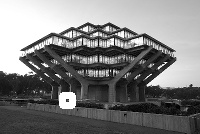
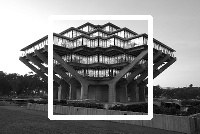
updated version

Changed region(s): [[0.24, 0.0896, 0.78, 0.8955]]

diff --git a/ece196FaceRecognition/process_local.py b/ece196FaceRecognition/process_local.py
@@ -1,4 +1,5 @@
 import cv2
+import numpy as np
 """
 ECE196 Face Recognition Project
 Author: W Chen
@@ -19,20 +20,18 @@ All the above steps should be in one function called process_image()
 def process_image():
     img = cv2.imread( "geisel.jpg", 0 )
     newImage = cv2.resize( img, None, fx = 0.5, fy = 0.5, interpolation = cv2.INTER_CUBIC )
+    
+    height = np.size( newImage, 0 )
+    width = np.size( newImage, 1 )
+    centerX = int( 0.5 * width )
+    centerY = int( 0.5 * height )
+    topLeft = ( centerX - 50, centerY - 50 )
+    bottomRight = ( centerX + 50, centerY + 50 )
 
-    newImageSize = newImage.shape
-    centerX = int( 0.5 * newImageSize[0] )
-    centerY = int( 0.5 * newImageSize[1] )
-    topLeft = ( centerX - 5, centerY - 5 )
-    bottomRight = ( centerX + 5, centerY + 5 )
-
-    print "newImageSize = ", newImageSize
-    print "centerX = ", centerX
-    print "topLeft = ", topLeft
     recImage = cv2.rectangle( newImage, topLeft, bottomRight, ( 255, 255, 255 ), 3 )
     #cv2.imwrite( 'geisel_rectangle.jpg', recImage )
-    #cv2.imshow( "geisel", recImage )
-    #cv2.waitKey( 0 )
+    cv2.imshow( "geisel", recImage )
+    cv2.waitKey( 0 )
     return
 
 
